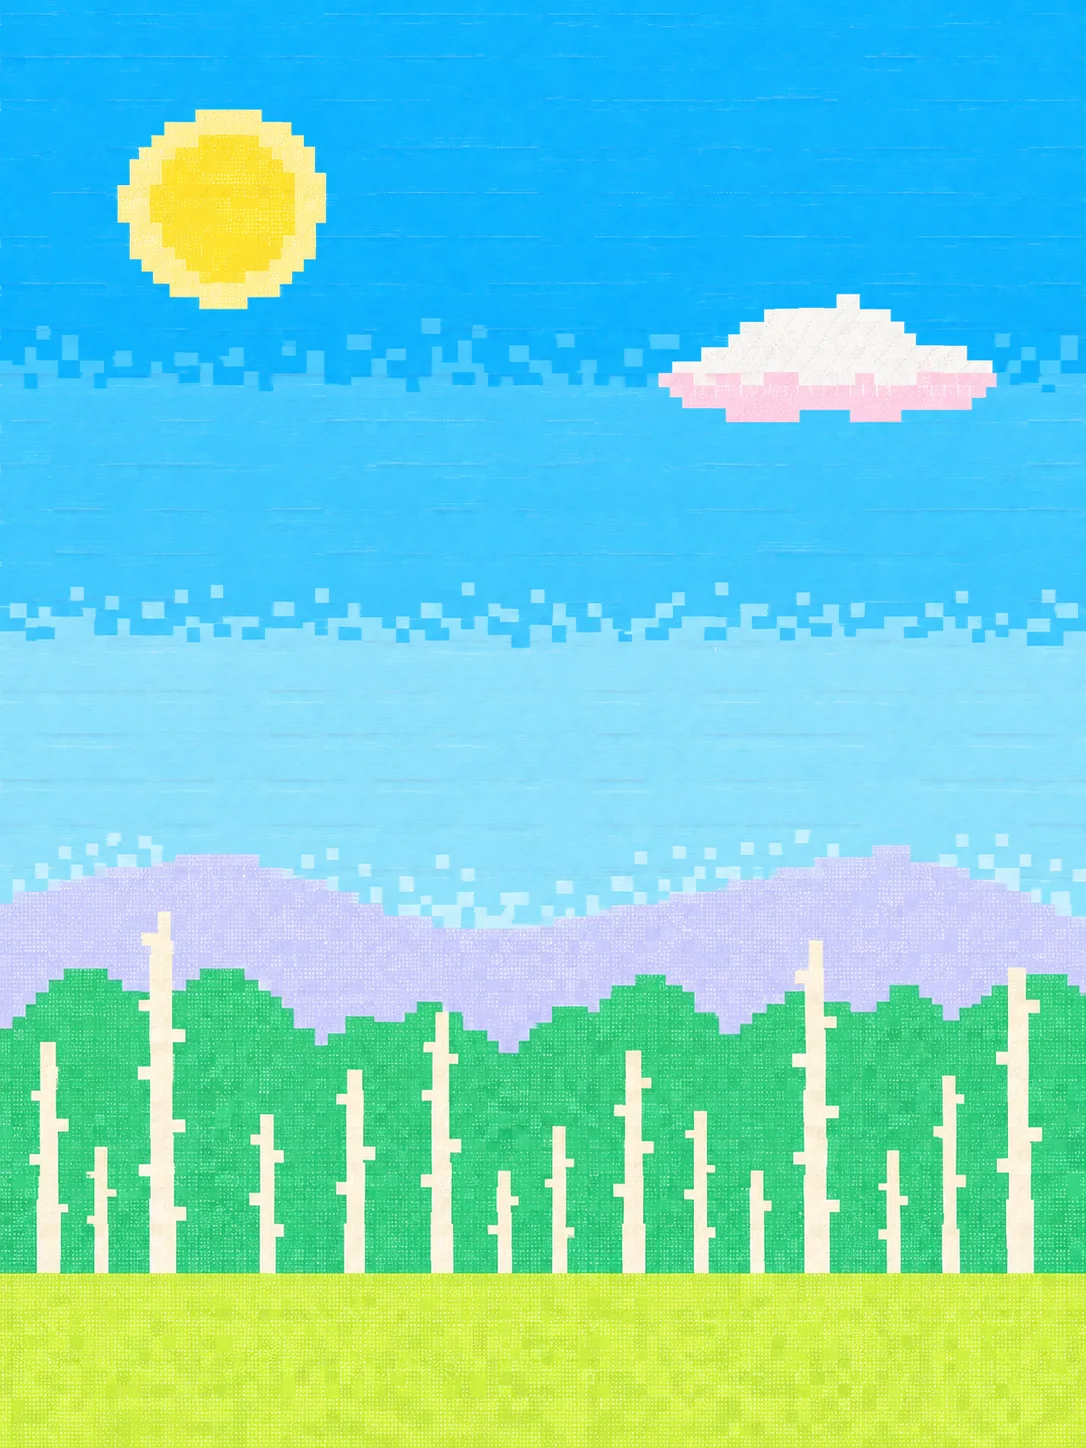
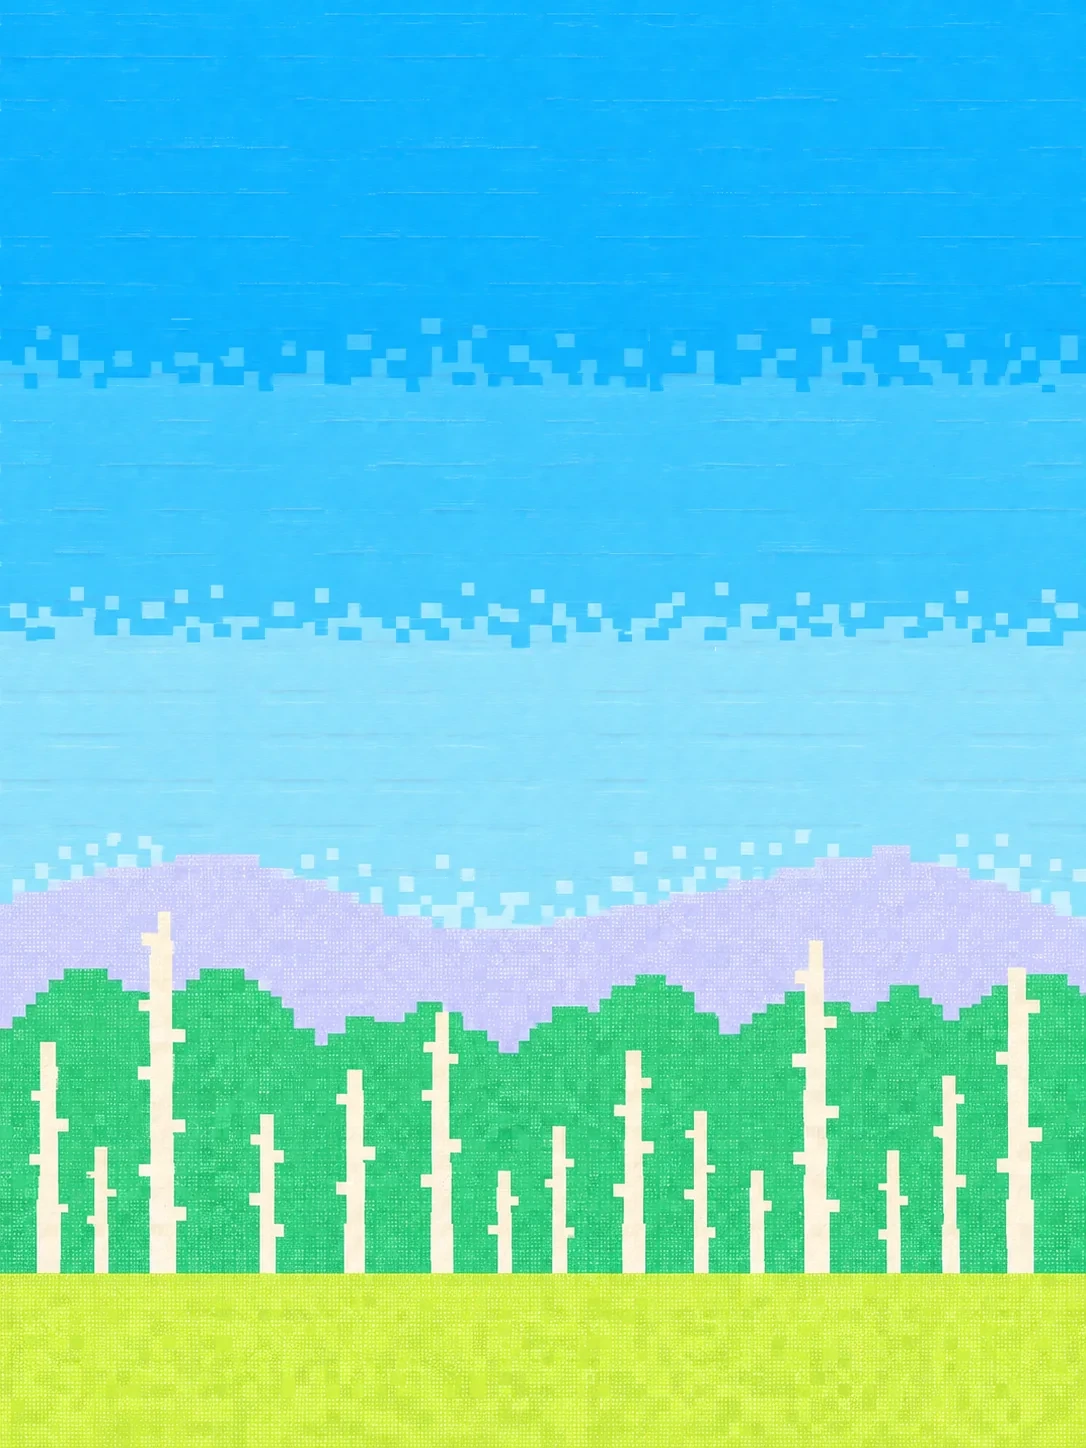
feat(dashboard): sign-in brings back the big card, a plain sky with no sun or clouds, every provider button with an inline coming soon, a quiet email field and a softer press
Claude-Session: https://claude.ai/code/session_01U69uFLMgJgS6MvZ1Fa28ZA

Changed region(s): [[0.5773, 0.1865, 0.942, 0.3108], [0.0912, 0.0622, 0.3039, 0.2175]]

diff --git a/apps/dashboard/src/pages/Auth.tsx b/apps/dashboard/src/pages/Auth.tsx
@@ -86,12 +86,25 @@ function CodeBoxes({ input, boxes, length, value, onChange, invalid, disabled, o
   );
 }
 
+const CARD_ROWS: Array<[string, "blue" | "pink" | "orange", string, string]> = [
+  ["kit", "blue", "see them work", "every bot, live, wherever it runs."],
+  ["hearty", "pink", "keep them on", "dusk cloud runs your routines while you sleep."],
+  ["boxo", "orange", "text them anywhere", "the same bots, from your phone."],
+];
+
 function SceneCard() {
   return (
-    <p className="flex items-center gap-4">
-      <Mascot body="kit" color="blue" size={44} still />
-      <span className="text-20 font-medium leading-[1.2] tracking-[-0.03em] text-ink">bots that work for you,<br />even while you sleep.</span>
-    </p>
+    <>
+      <p className="text-[30px] font-medium leading-[1.1] tracking-[-0.045em] text-ink">your bots, all in one place.</p>
+      <ul className="mt-7 flex flex-col gap-5">
+        {CARD_ROWS.map(([body, colour, title, line]) => (
+          <li key={title} className="flex items-start gap-3.5">
+            <Mascot body={body} color={colour} size={34} still />
+            <span className="min-w-0"><b className="block text-15 font-[550] tracking-[-0.01em] text-ink">{title}</b><span className="block text-14 text-ink-2">{line}</span></span>
+          </li>
+        ))}
+      </ul>
+    </>
   );
 }
 
@@ -121,6 +134,7 @@ export function AuthScreen({ mode, note }: { mode: Mode; note?: ReactNode }) {
   const [oops, setOops] = useState(0);
   const [error, setError] = useState<string | null>(() => OAUTH_ERROR[query.get("error") ?? ""] ?? null);
   const [providers, setProviders] = useState<AuthProviders["providers"] | null>(null);
+  const [soon, setSoon] = useState<IdentityProvider | null>(null);
   const [, force] = useState(0);
   const codeRef = useRef<HTMLInputElement>(null);
   const boxes = useRef<HTMLDivElement>(null);
@@ -168,7 +182,6 @@ export function AuthScreen({ mode, note }: { mode: Mode; note?: ReactNode }) {
   const reason = (e: unknown) => (e instanceof ApiError && e.code && REASON[e.code]) || (e as Error).message || "sign-in didn't work. try again.";
   const fail = (e: unknown) => { setError(reason(e)); setOops((n) => n + 1); };
   const enabled = (p: IdentityProvider) => providers === null ? true : providers.some((x) => x.id === p && x.enabled);
-  const hidden = (p: IdentityProvider) => providers !== null && !providers.some((x) => x.id === p && (x.enabled || x.comingSoon));
   const toCode = () => {
     if ((window.history.state as { duskAuth?: string } | null)?.duskAuth !== "code") window.history.pushState({ ...(window.history.state as object | null), duskAuth: "code" }, "");
     setStep("code");
@@ -210,6 +223,9 @@ export function AuthScreen({ mode, note }: { mode: Mode; note?: ReactNode }) {
   };
   const oauth = async (p: IdentityProvider) => {
     setError(null);
+    // a provider without keys yet keeps its button and says so, instead of vanishing
+    if (!enabled(p)) { setSoon(p); return; }
+    setSoon(null);
     if (!FIXTURE) { window.location.assign(api.oauthUrl(p, mode, { next: home })); return; }
     // fixtures have no provider page to bounce through: sign the demo account in
     setBusy(p);
@@ -222,7 +238,7 @@ export function AuthScreen({ mode, note }: { mode: Mode; note?: ReactNode }) {
   const emailField = (id: string) => (
     <>
       <label htmlFor={id} className="mb-2 block text-14 text-ink-2">email</label>
-      <input ref={id === "email" ? emailRef : undefined} id={id} type="email" autoComplete="email" inputMode="email" autoCapitalize="none" spellCheck={false} required placeholder="you@example.com" value={email} onChange={(e) => typed(e.target.value)} onFocus={() => setFocused(true)} onBlur={() => setFocused(false)} className="field !h-12" aria-invalid={Boolean(error)} aria-describedby={error ? "auth-error" : undefined} />
+      <input ref={id === "email" ? emailRef : undefined} id={id} type="email" autoComplete="email" inputMode="email" autoCapitalize="none" spellCheck={false} required placeholder="you@example.com" value={email} onChange={(e) => typed(e.target.value)} onFocus={() => setFocused(true)} onBlur={() => setFocused(false)} className="field field-quiet !h-12" aria-invalid={Boolean(error)} aria-describedby={error ? "auth-error" : undefined} />
       {error && <p id="auth-error" role="alert" className="mt-2.5 text-14 text-bad">{error}</p>}
     </>
   );
@@ -233,7 +249,7 @@ export function AuthScreen({ mode, note }: { mode: Mode; note?: ReactNode }) {
       mood={mood}
       scene={scene}
       card={<SceneCard />}
-      snug
+      plain
       aside={<a href={SITE_URL} className="hover-link -me-2 inline-flex h-11 items-center gap-1.5 rounded-full px-2 text-14 text-ink-3"><ArrowLeft size={15} strokeWidth={1.75} aria-hidden />back to {SITE_NAME === "dusk.bot" ? SITE_NAME : "the site"}</a>}
       foot={signup ? <>by continuing you agree to the <a href={siteUrl("/terms")} className={LINK}>terms</a> and <a href={siteUrl("/privacy")} className={LINK}>privacy policy</a>.</> : "your chats and files stay on your own computers."}
     >
@@ -250,18 +266,20 @@ export function AuthScreen({ mode, note }: { mode: Mode; note?: ReactNode }) {
           {note && <div className="mt-4 rounded-[16px] bg-lemon px-4 py-3 text-14 leading-[1.5] text-ink">{note}</div>}
           {pending && <div className="mt-4 rounded-[16px] bg-lemon px-4 py-3 text-14 leading-[1.5] text-ink">one more step: your provider didn't share an email, so enter the one you want to sign in with.</div>}
           <div className="mt-7 flex flex-col gap-2">
-            {!pending && OAUTH.filter((p) => !hidden(p)).map((p) => (
+            {!pending && OAUTH.map((p) => (
               <button
                 key={p}
                 type="button"
                 onClick={() => void oauth(p)}
-                disabled={busy !== null || !enabled(p)}
+                disabled={busy !== null}
+                aria-describedby={soon === p ? "auth-soon" : undefined}
                 className="press hover-outline relative flex h-12 w-full items-center justify-center gap-2.5 rounded-full bg-btn text-15 font-medium text-ink disabled:opacity-45"
               >
                 <span className="grid size-5 place-items-center text-ink"><ProviderMark provider={p} size={18} /></span>
-                {busy === p ? "signing in" : enabled(p) ? `continue with ${PROVIDER_NAME[p].toLowerCase()}` : `${PROVIDER_NAME[p].toLowerCase()}, coming soon`}
+                {busy === p ? "signing in" : `continue with ${PROVIDER_NAME[p].toLowerCase()}`}
               </button>
             ))}
+            {soon && !pending && <p id="auth-soon" role="status" className="px-1 pt-1 text-14 text-ink-2">{PROVIDER_NAME[soon].toLowerCase()} sign-in is coming soon. use email{soon !== "google" && enabled("google") ? " or google" : ""} for now.</p>}
           </div>
           <div className={cx("t-meta my-5 flex items-center gap-3", pending && "hidden")} aria-hidden><span className="h-px flex-1 bg-line" />or<span className="h-px flex-1 bg-line" /></div>
           <form onSubmit={(e) => { e.preventDefault(); setRecovering(false); void send(false); }} noValidate>
@@ -270,7 +288,7 @@ export function AuthScreen({ mode, note }: { mode: Mode; note?: ReactNode }) {
           </form>
           {slow && <p role="status" className="mt-3 text-13 text-ink-3">still working. this connection is slow.</p>}
           <div className="mt-5 flex flex-wrap items-center justify-between gap-x-4 text-14 text-ink-3">
-            <span>{signup ? <>have an account? <Link to={`/signin${carry}`} className={LINK}>sign in</Link></> : <>new here? <Link to={`/signup${carry}`} className={LINK}>make an account</Link></>}</span>
+            <span>{signup ? <>already have an account? <Link to={`/signin${carry}`} className={LINK}>sign in</Link></> : <>new here? <Link to={`/signup${carry}`} className={LINK}>make an account</Link></>}</span>
             {!signup && !pending && <button type="button" className={cx(QUIET, "-me-2")} onClick={() => { setStep("recover"); setError(null); }}>can't sign in?</button>}
           </div>
         </div>

diff --git a/apps/dashboard/src/ui/Scene.tsx b/apps/dashboard/src/ui/Scene.tsx
@@ -2,6 +2,7 @@ import { forwardRef, useEffect, useImperativeHandle, useRef, useState, useSyncEx
 import cloudLemon from "../art/cloud-lemon.png";
 import cloudPink from "../art/cloud-pink.png";
 import band from "../art/wide-layers.webp";
+import plainBand from "../art/wide-layers-plain.webp";
 import { cx } from "./kit";
 import { BOT_COLOURS, Mascot, useReducedMotion, type BotColour, type BotReaction, type BotState, type MascotHandle } from "./Mascot";
 
@@ -37,8 +38,8 @@ export interface SceneHandle { react(kind: BotReaction, which?: number): void }
 
 /** a poster with a few bots living in it (a short band keeps the whole landscape by using the wide picture): they watch the pointer, turn to `look` when something is happening elsewhere,
  * and act out `mood`. the art is decoration; nothing here is needed to use the page */
-export const Scene = forwardRef<SceneHandle, { poster: string; mood?: SceneMood; look?: { x: number; y: number } | null; compact?: boolean; className?: string; children?: ReactNode }>(
-  function Scene({ poster, mood = "idle", look = null, compact = false, className, children }, ref) {
+export const Scene = forwardRef<SceneHandle, { poster: string; mood?: SceneMood; look?: { x: number; y: number } | null; compact?: boolean; plain?: boolean; className?: string; children?: ReactNode }>(
+  function Scene({ poster, mood = "idle", look = null, compact = false, plain = false, className, children }, ref) {
     const reduced = useReducedMotion();
     const bots = useRef<Array<MascotHandle | null>>([]);
     const crew = compact ? SMALL_CREW : CREW;
@@ -60,9 +61,9 @@ export const Scene = forwardRef<SceneHandle, { poster: string; mood?: SceneMood;
     const scale = compact ? 0.56 : 1;
     return (
       <div className={cx("relative isolate overflow-hidden bg-[#3fbdfb]", className)} aria-hidden>
-        <img src={compact ? band : poster} alt="" className="absolute inset-0 size-full object-cover object-bottom" draggable={false} />
-        <img src={cloudPink} alt="" width={240} height={80} className="pixel-art cloud-drift absolute left-[6%] top-[7%] w-[19%] max-w-[150px]" style={{ ["--drift" as string]: "90px", ["--dur" as string]: "38s" }} draggable={false} />
-        <img src={cloudLemon} alt="" width={240} height={80} className="pixel-art cloud-drift absolute right-[10%] top-[19%] w-[13%] max-w-[104px] max-lg:top-[30%]" style={{ ["--drift" as string]: "-70px", ["--dur" as string]: "52s" }} draggable={false} />
+        <img src={compact ? (plain ? plainBand : band) : poster} alt="" className="absolute inset-0 size-full object-cover object-bottom" draggable={false} />
+        {!plain && <><img src={cloudPink} alt="" width={240} height={80} className="pixel-art cloud-drift absolute left-[6%] top-[7%] w-[19%] max-w-[150px]" style={{ ["--drift" as string]: "90px", ["--dur" as string]: "38s" }} draggable={false} />
+        <img src={cloudLemon} alt="" width={240} height={80} className="pixel-art cloud-drift absolute right-[10%] top-[19%] w-[13%] max-w-[104px] max-lg:top-[30%]" style={{ ["--drift" as string]: "-70px", ["--dur" as string]: "52s" }} draggable={false} /></>}
         {children}
         {crew.map((m, i) => {
           const asleep = m.sleepy && mood === "idle";

diff --git a/apps/dashboard/src/ui/Frame.tsx b/apps/dashboard/src/ui/Frame.tsx
@@ -1,4 +1,4 @@
-import type { ReactNode, Ref } from "react";
+import { useEffect, type ReactNode, type Ref } from "react";
 import mark from "../../favicon.svg";
 import { SITE_URL } from "../lib/site";
 import { cx } from "./kit";
@@ -8,12 +8,22 @@ const TOWARD_FORM: SceneMood[] = ["typing", "thinking", "waiting", "oops"];
 
 /** the screens before the dashboard: a tall poster with the crew on the left, one calm column on the right. on a phone
  * the poster is a short band on top */
-export function SplitFrame({ poster, mood, scene, card, snug = false, aside, children, foot }: { poster: string; mood: SceneMood; scene?: Ref<SceneHandle>; card?: ReactNode; snug?: boolean; aside?: ReactNode; children: ReactNode; foot?: ReactNode }) {
+/** `plain`: only the banded sky, hills and trees, with no drifting clouds over them */
+export function SplitFrame({ poster, mood, scene, card, snug = false, plain = false, aside, children, foot }: { poster: string; mood: SceneMood; scene?: Ref<SceneHandle>; card?: ReactNode; snug?: boolean; plain?: boolean; aside?: ReactNode; children: ReactNode; foot?: ReactNode }) {
   const wide = useMedia("(min-width: 1024px)");
+  // inputs count as focus-visible however they were focused, so the page itself tells keyboard use from pointer use
+  useEffect(() => {
+    const root = document.documentElement;
+    const keys = (e: KeyboardEvent) => { if (e.key === "Tab") root.dataset.keys = ""; };
+    const pointer = () => { delete root.dataset.keys; };
+    document.addEventListener("keydown", keys, true);
+    document.addEventListener("pointerdown", pointer, true);
+    return () => { document.removeEventListener("keydown", keys, true); document.removeEventListener("pointerdown", pointer, true); delete root.dataset.keys; };
+  }, []);
   const look = TOWARD_FORM.includes(mood) ? (wide ? { x: 0.95, y: -0.1 } : { x: 0, y: 0.9 }) : null;
   return (
     <div className="min-h-[100dvh] bg-bg lg:grid lg:grid-cols-[minmax(0,0.94fr)_minmax(0,1fr)] lg:gap-3 lg:p-3">
-      <Scene ref={scene} poster={poster} mood={mood} look={look} compact={!wide} className="h-[168px] lg:sticky lg:top-3 lg:h-[calc(100dvh-24px)] lg:min-h-[620px] lg:rounded-[28px]">
+      <Scene ref={scene} poster={poster} mood={mood} look={look} compact={!wide} plain={plain} className="h-[168px] lg:sticky lg:top-3 lg:h-[calc(100dvh-24px)] lg:min-h-[620px] lg:rounded-[28px]">
         {card && <div className={cx("pop enter absolute top-[11%] rounded-[24px] bg-pop max-lg:hidden", snug ? "left-[9%] px-6 py-5 xl:left-[13%]" : "inset-x-[9%] p-8 xl:inset-x-[13%]")}>{card}</div>}
       </Scene>
       <div className="flex min-h-[calc(100dvh-168px)] flex-col px-5 lg:min-h-[calc(100dvh-24px)] lg:px-10">

diff --git a/apps/dashboard/src/app.css b/apps/dashboard/src/app.css
@@ -303,9 +303,9 @@
     content: ""; position: absolute; inset: 0; border-radius: inherit; background: currentColor;
     animation: pulse-dot 1.8s var(--ease-out) infinite;
   }
-  /* hovers change colour at once; the press is the part that moves, and it lets go with a little bounce */
-  .press { transition: transform 260ms var(--ease-pop); }
-  .press:active:not(:disabled) { transform: scale(0.96); transition-duration: 90ms; }
+  /* hovers change colour at once; a press only gives a little, and lets go without a bounce */
+  .press { transition: transform 160ms var(--ease-out); }
+  .press:active:not(:disabled) { transform: scale(0.98); transition-duration: 80ms; }
   .press-soft { transition: transform 260ms var(--ease-pop); }
   .press-soft:active { transform: scale(0.985); transition-duration: 90ms; }
   .bar-fill { transition: transform var(--dur-slow) var(--ease-out); transform-origin: left; }
@@ -345,6 +345,10 @@
   .field::placeholder { color: var(--ink-4); }
   .field:focus-visible { background: var(--pop); box-shadow: inset 0 0 0 2px var(--accent); outline: none; }
   .field[aria-invalid="true"] { box-shadow: inset 0 0 0 2px var(--bad); }
+  /* the sign-in email looks the same focused as at rest; only someone moving by keyboard gets a faint ring outside it */
+  .field-quiet:focus-visible { background: var(--btn); box-shadow: none; }
+  html[data-keys] .field-quiet:focus-visible { outline: 2px solid color-mix(in oklab, var(--ink) 22%, transparent); outline-offset: 3px; }
+  .field-quiet[aria-invalid="true"] { box-shadow: inset 0 0 0 2px var(--bad); }
   .scroll-x { overflow-x: auto; scrollbar-width: none; }
   .scroll-x::-webkit-scrollbar { display: none; }
 }

diff --git a/apps/dashboard/src/pages/Auth.dom.test.ts b/apps/dashboard/src/pages/Auth.dom.test.ts
@@ -71,3 +71,14 @@ test("a malformed link is ignored and the page starts at sign-in", async () => {
   expect(host.querySelector("h1")?.textContent).toBe("welcome back.");
   expect(button(host, "continue")).not.toBeNull();
 });
+
+test("every sign-in button shows; one without keys yet says so in place instead of leaving the page", async () => {
+  history.replaceState(null, "", "/sign-in");
+  const assign = vi.spyOn(window.location, "assign").mockImplementation(() => {});
+  const host = await render();
+  for (const label of ["continue with google", "continue with apple", "continue with x"]) expect(button(host, label)).not.toBeNull();
+  await act(async () => button(host, "continue with x")!.click());
+  expect(assign).not.toHaveBeenCalled();
+  expect(host.querySelector("#auth-soon")?.textContent).toBe("x sign-in is coming soon. use email or google for now.");
+  expect(host.textContent).toContain("new here? make an account");
+});
